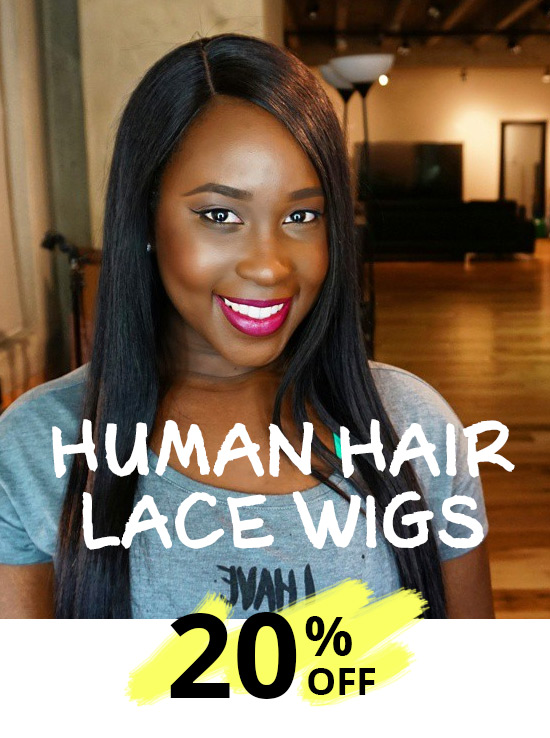
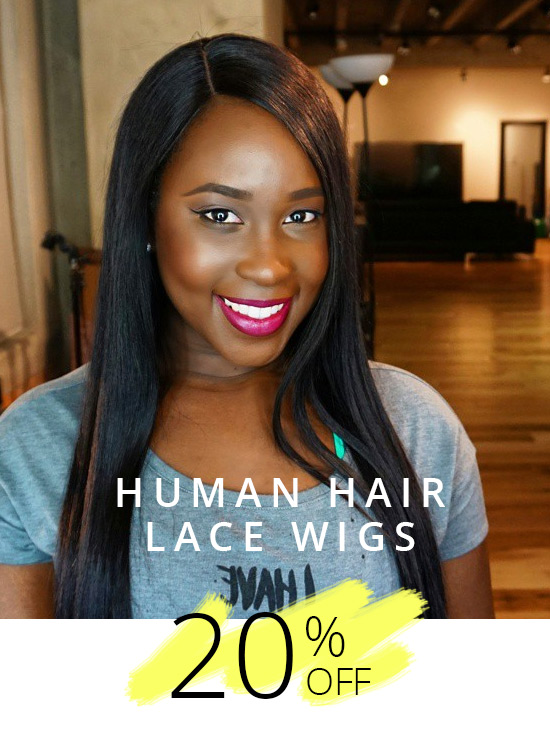
首页重新排版,明星发分类banner替换

Changed region(s): [[0.0927, 0.561, 0.9273, 0.748], [0.3091, 0.8103, 0.68, 0.9661]]

diff --git a/themes/uniwigs2016/js/respMap.js b/themes/uniwigs2016/js/respMap.js
@@ -1,0 +1,67 @@
+/*
+* rwdImageMaps jQuery plugin v1.5
+*
+* Allows image maps to be used in a responsive design by recalculating the area coordinates to match the actual image size on load and window.resize
+*
+* Copyright (c) 2013 Matt Stow
+* https://github.com/stowball/jQuery-rwdImageMaps
+* http://mattstow.com
+* Licensed under the MIT license
+*/
+;(function($) {
+	$.fn.rwdImageMaps = function() {
+		var $img = this;
+		
+		var rwdImageMap = function() {
+			$img.each(function() {
+				if (typeof($(this).attr('usemap')) == 'undefined')
+					return;
+				
+				var that = this,
+					$that = $(that);
+				
+				// Since WebKit doesn't know the height until after the image has loaded, perform everything in an onload copy
+				$('<img />').load(function() {
+					var attrW = 'width',
+						attrH = 'height',
+						w = $that.attr(attrW),
+						h = $that.attr(attrH);
+					
+					if (!w || !h) {
+						var temp = new Image();
+						temp.src = $that.attr('src');
+						if (!w)
+							w = temp.width;
+						if (!h)
+							h = temp.height;
+					}
+					
+					var wPercent = $that.width()/100,
+						hPercent = $that.height()/100,
+						map = $that.attr('usemap').replace('#', ''),
+						c = 'coords';
+					
+					$('map[name="' + map + '"]').find('area').each(function() {
+						var $this = $(this);
+						if (!$this.data(c))
+							$this.data(c, $this.attr(c));
+						
+						var coords = $this.data(c).split(','),
+							coordsPercent = new Array(coords.length);
+						
+						for (var i = 0; i < coordsPercent.length; ++i) {
+							if (i % 2 === 0)
+								coordsPercent[i] = parseInt(((coords[i]/w)*100)*wPercent);
+							else
+								coordsPercent[i] = parseInt(((coords[i]/h)*100)*hPercent);
+						}
+						$this.attr(c, coordsPercent.toString());
+					});
+				}).attr('src', $that.attr('src'));
+			});
+		};
+		$(window).resize(rwdImageMap).trigger('resize');
+		
+		return this;
+	};
+})(jQuery);
